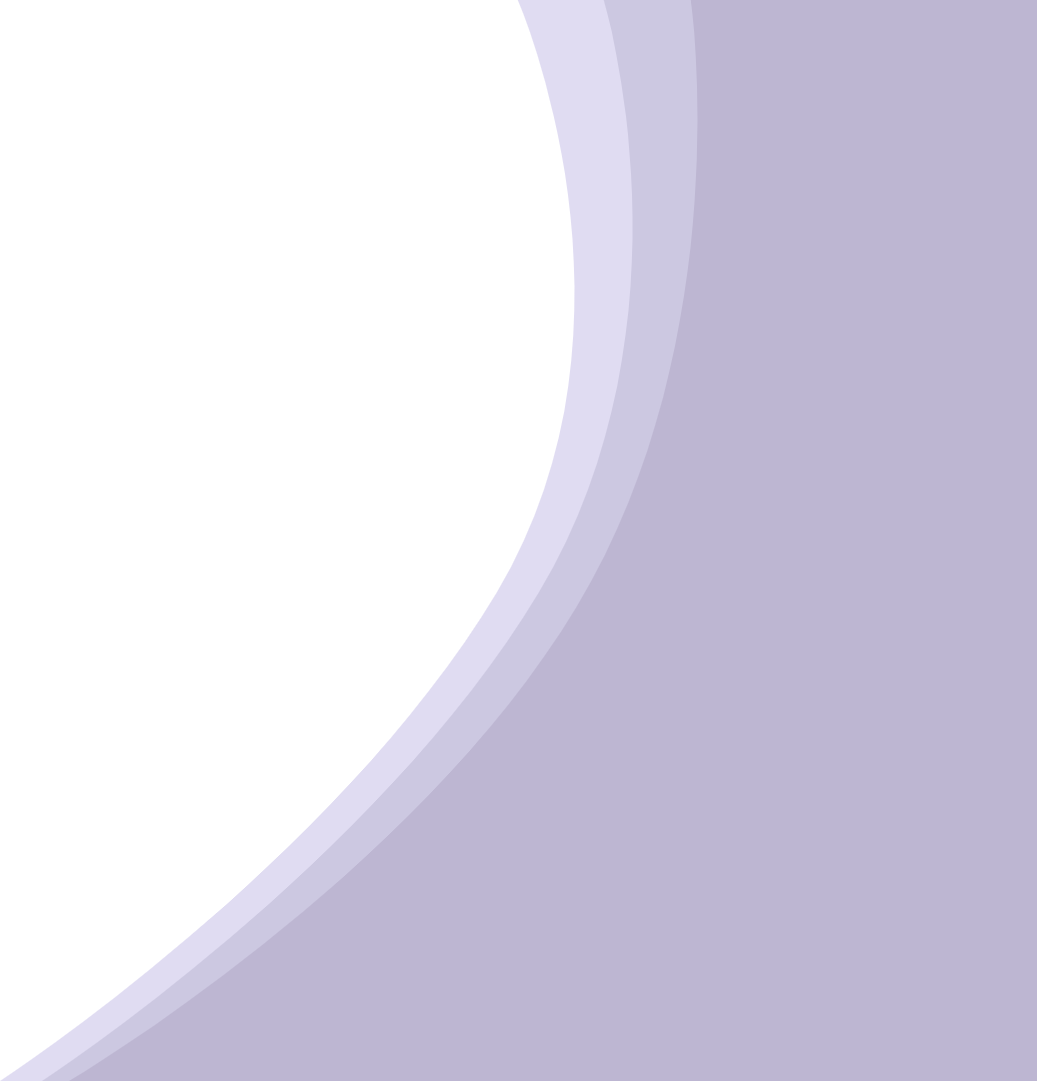
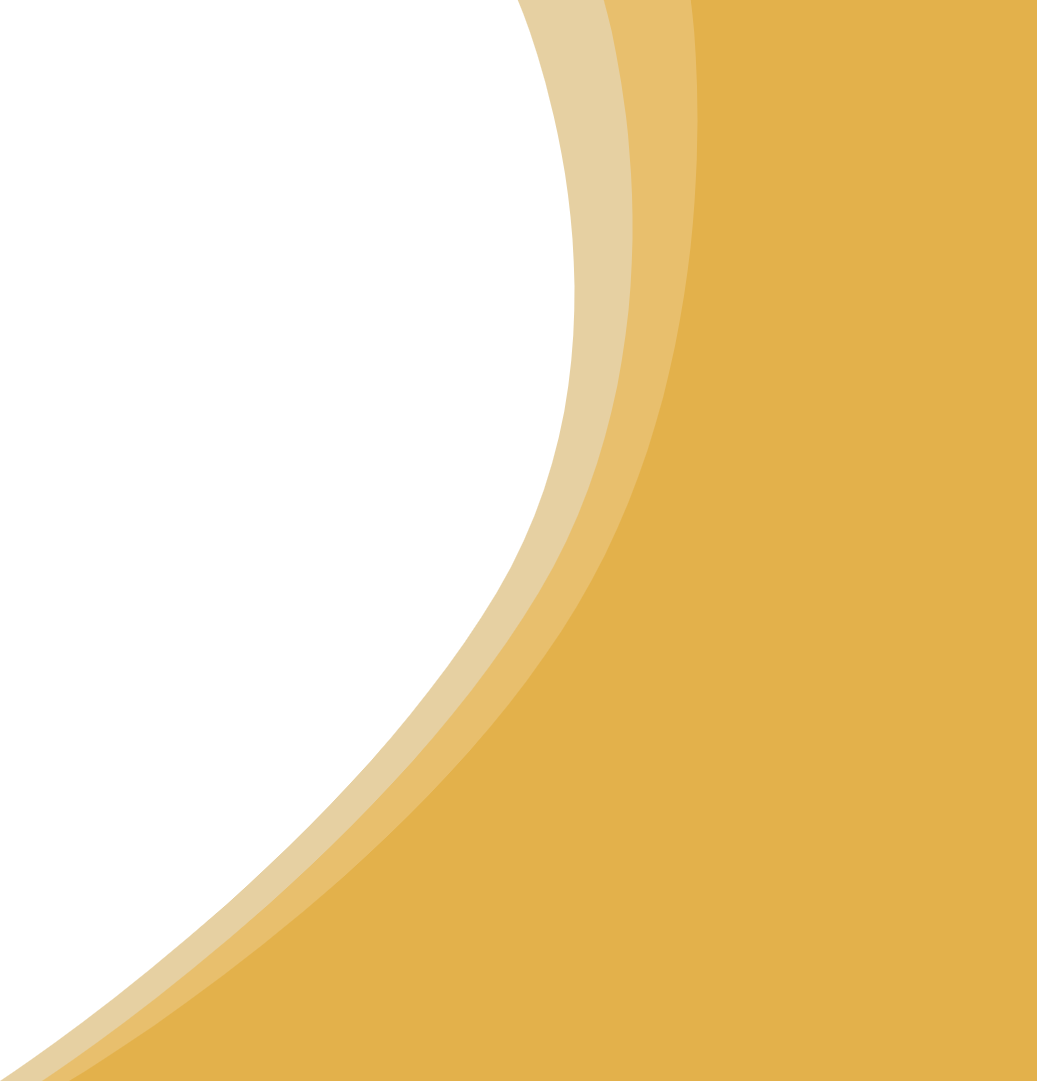
Updated main color

diff --git a/components/New/Breadcrumb.tsx b/components/New/Breadcrumb.tsx
@@ -88,5 +88,14 @@ export function Breadcrumb() {
     });
   };
 
-  return <div className='flex flex-row gap-2 overflow-x-scroll mb-2'>{generateCrumbs()}</div>;
+  return (
+    <div
+      style={{
+        msOverflowStyle: 'none',
+        scrollbarWidth: 'none',
+      }}
+      className='flex flex-row gap-2 overflow-x-scroll mb-2'>
+      {generateCrumbs()}
+    </div>
+  );
 }

diff --git a/colors.js b/colors.js
@@ -1,6 +1,6 @@
 module.exports = {
   hero: '#feffe9',
-  primary: '#3F4FB4',
+  primary: '#E3B14B',
   accent: '#444B6E',
   dark: '#1F1300',
   secondary: '#518577',
